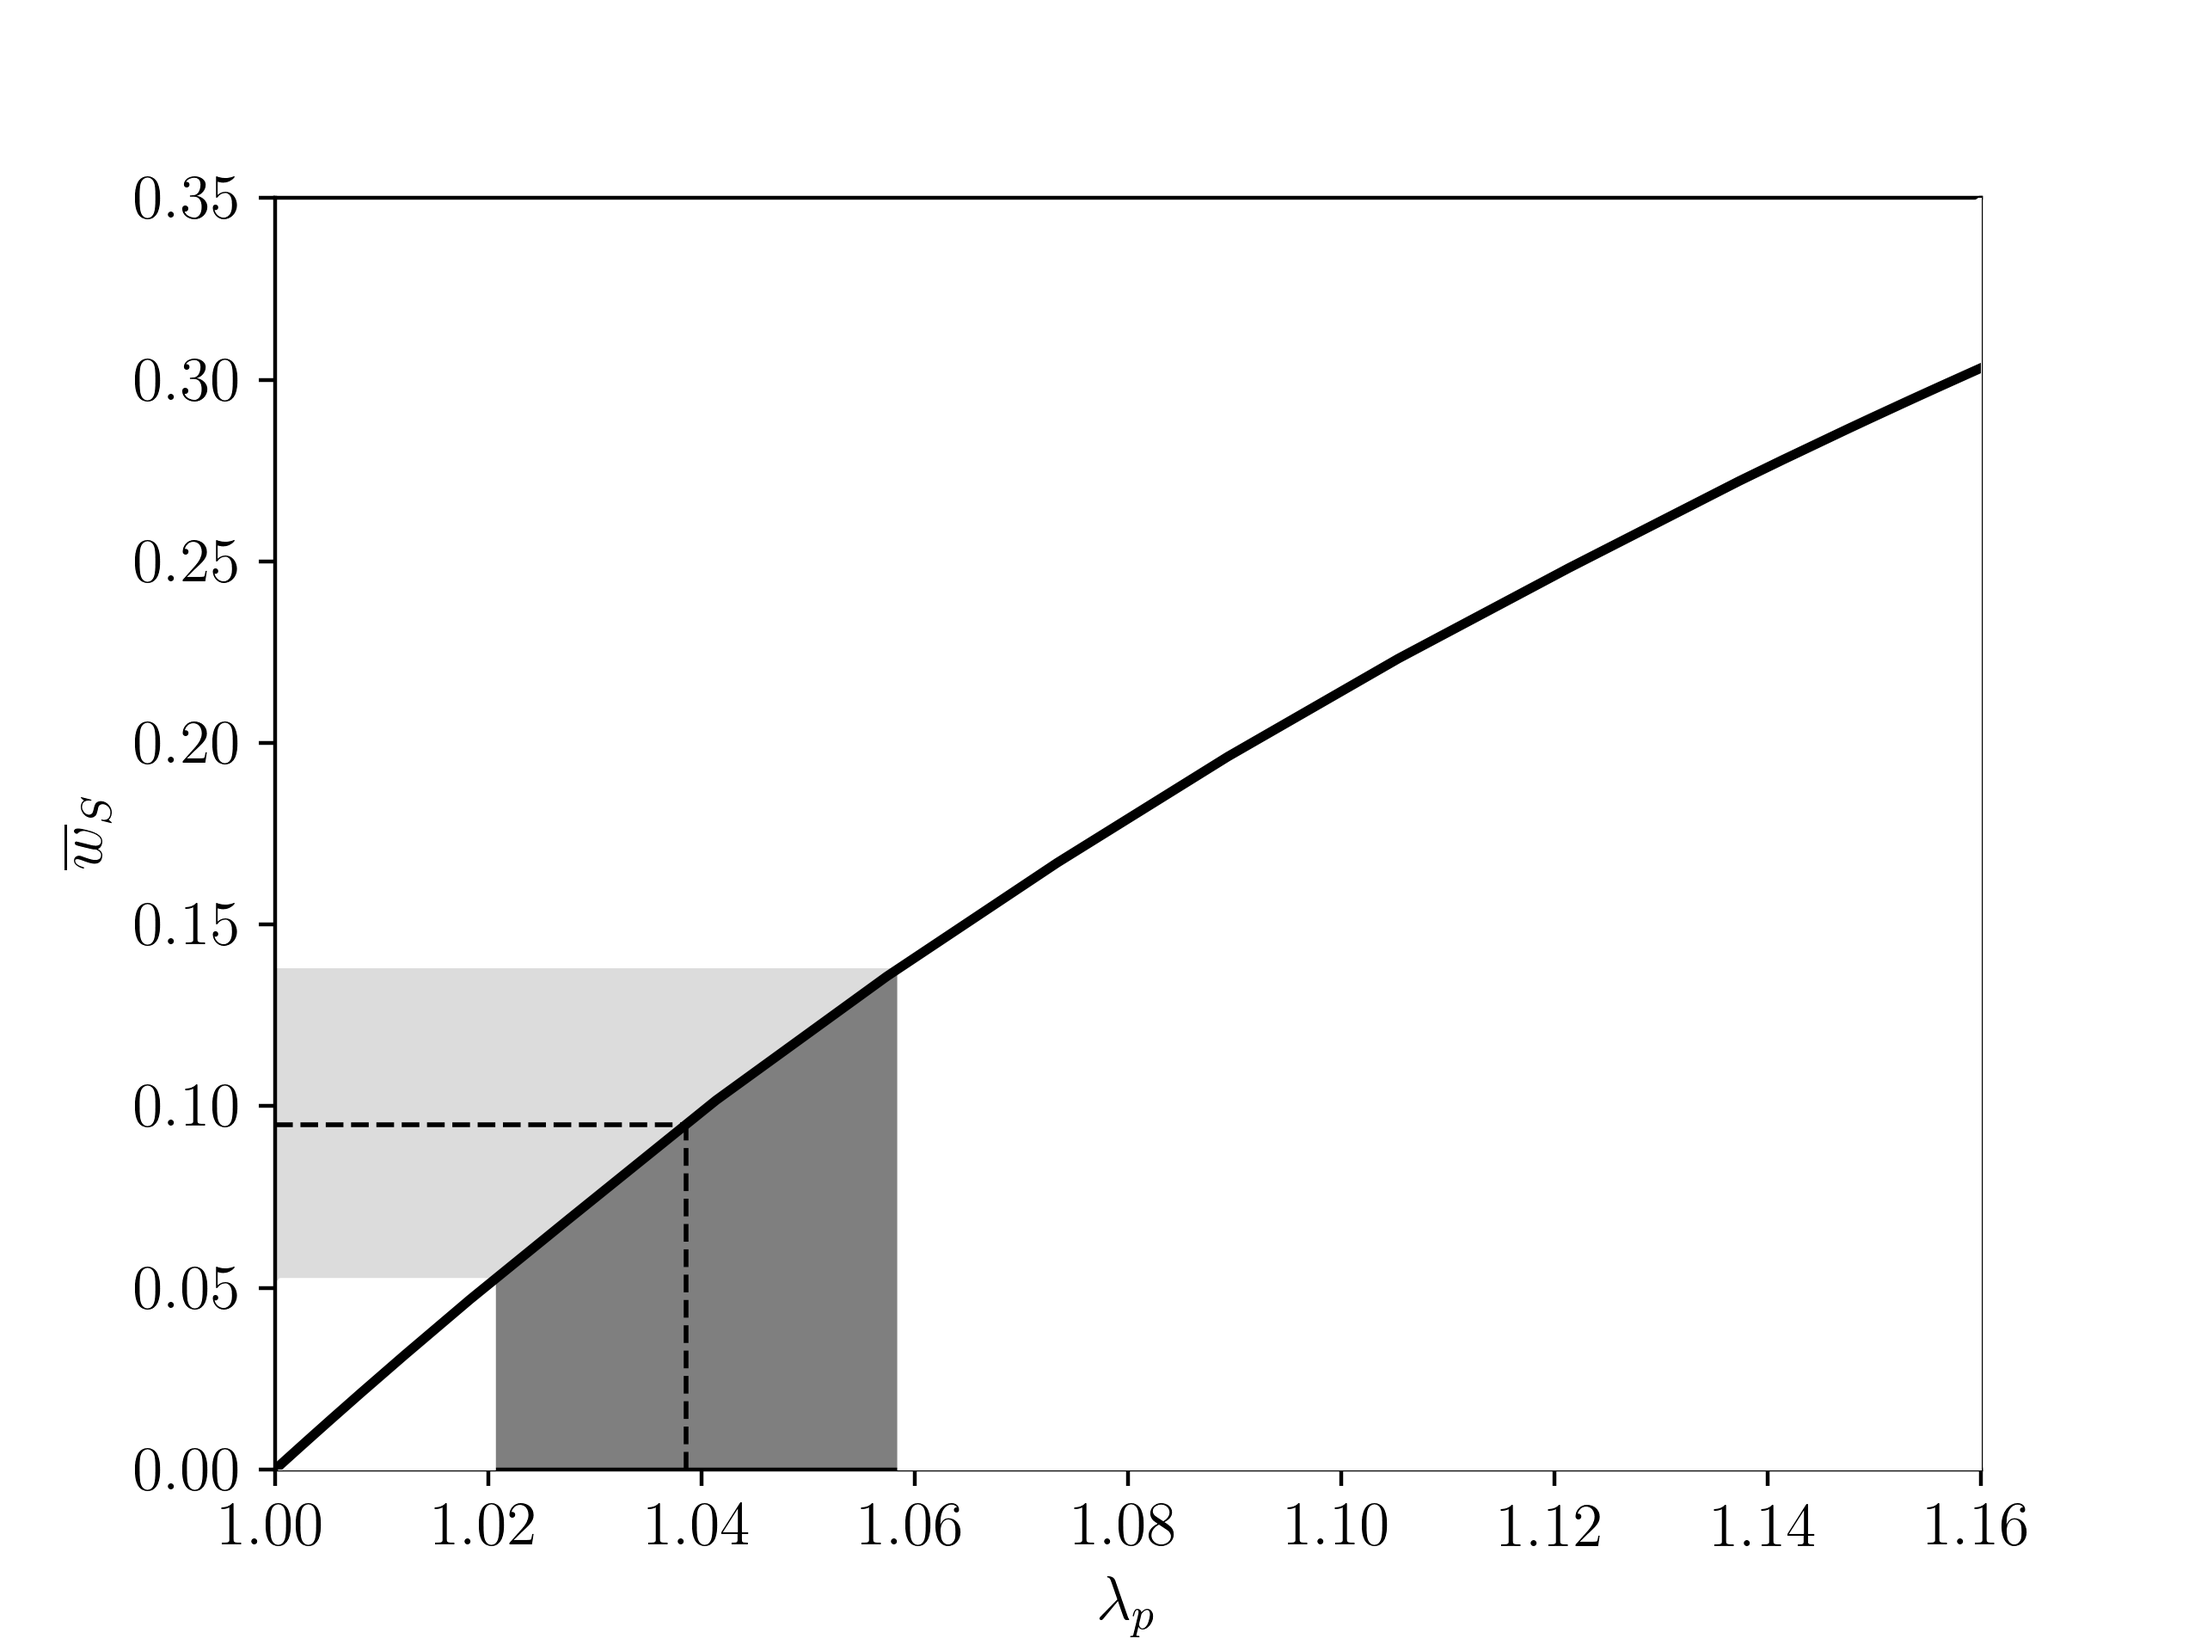
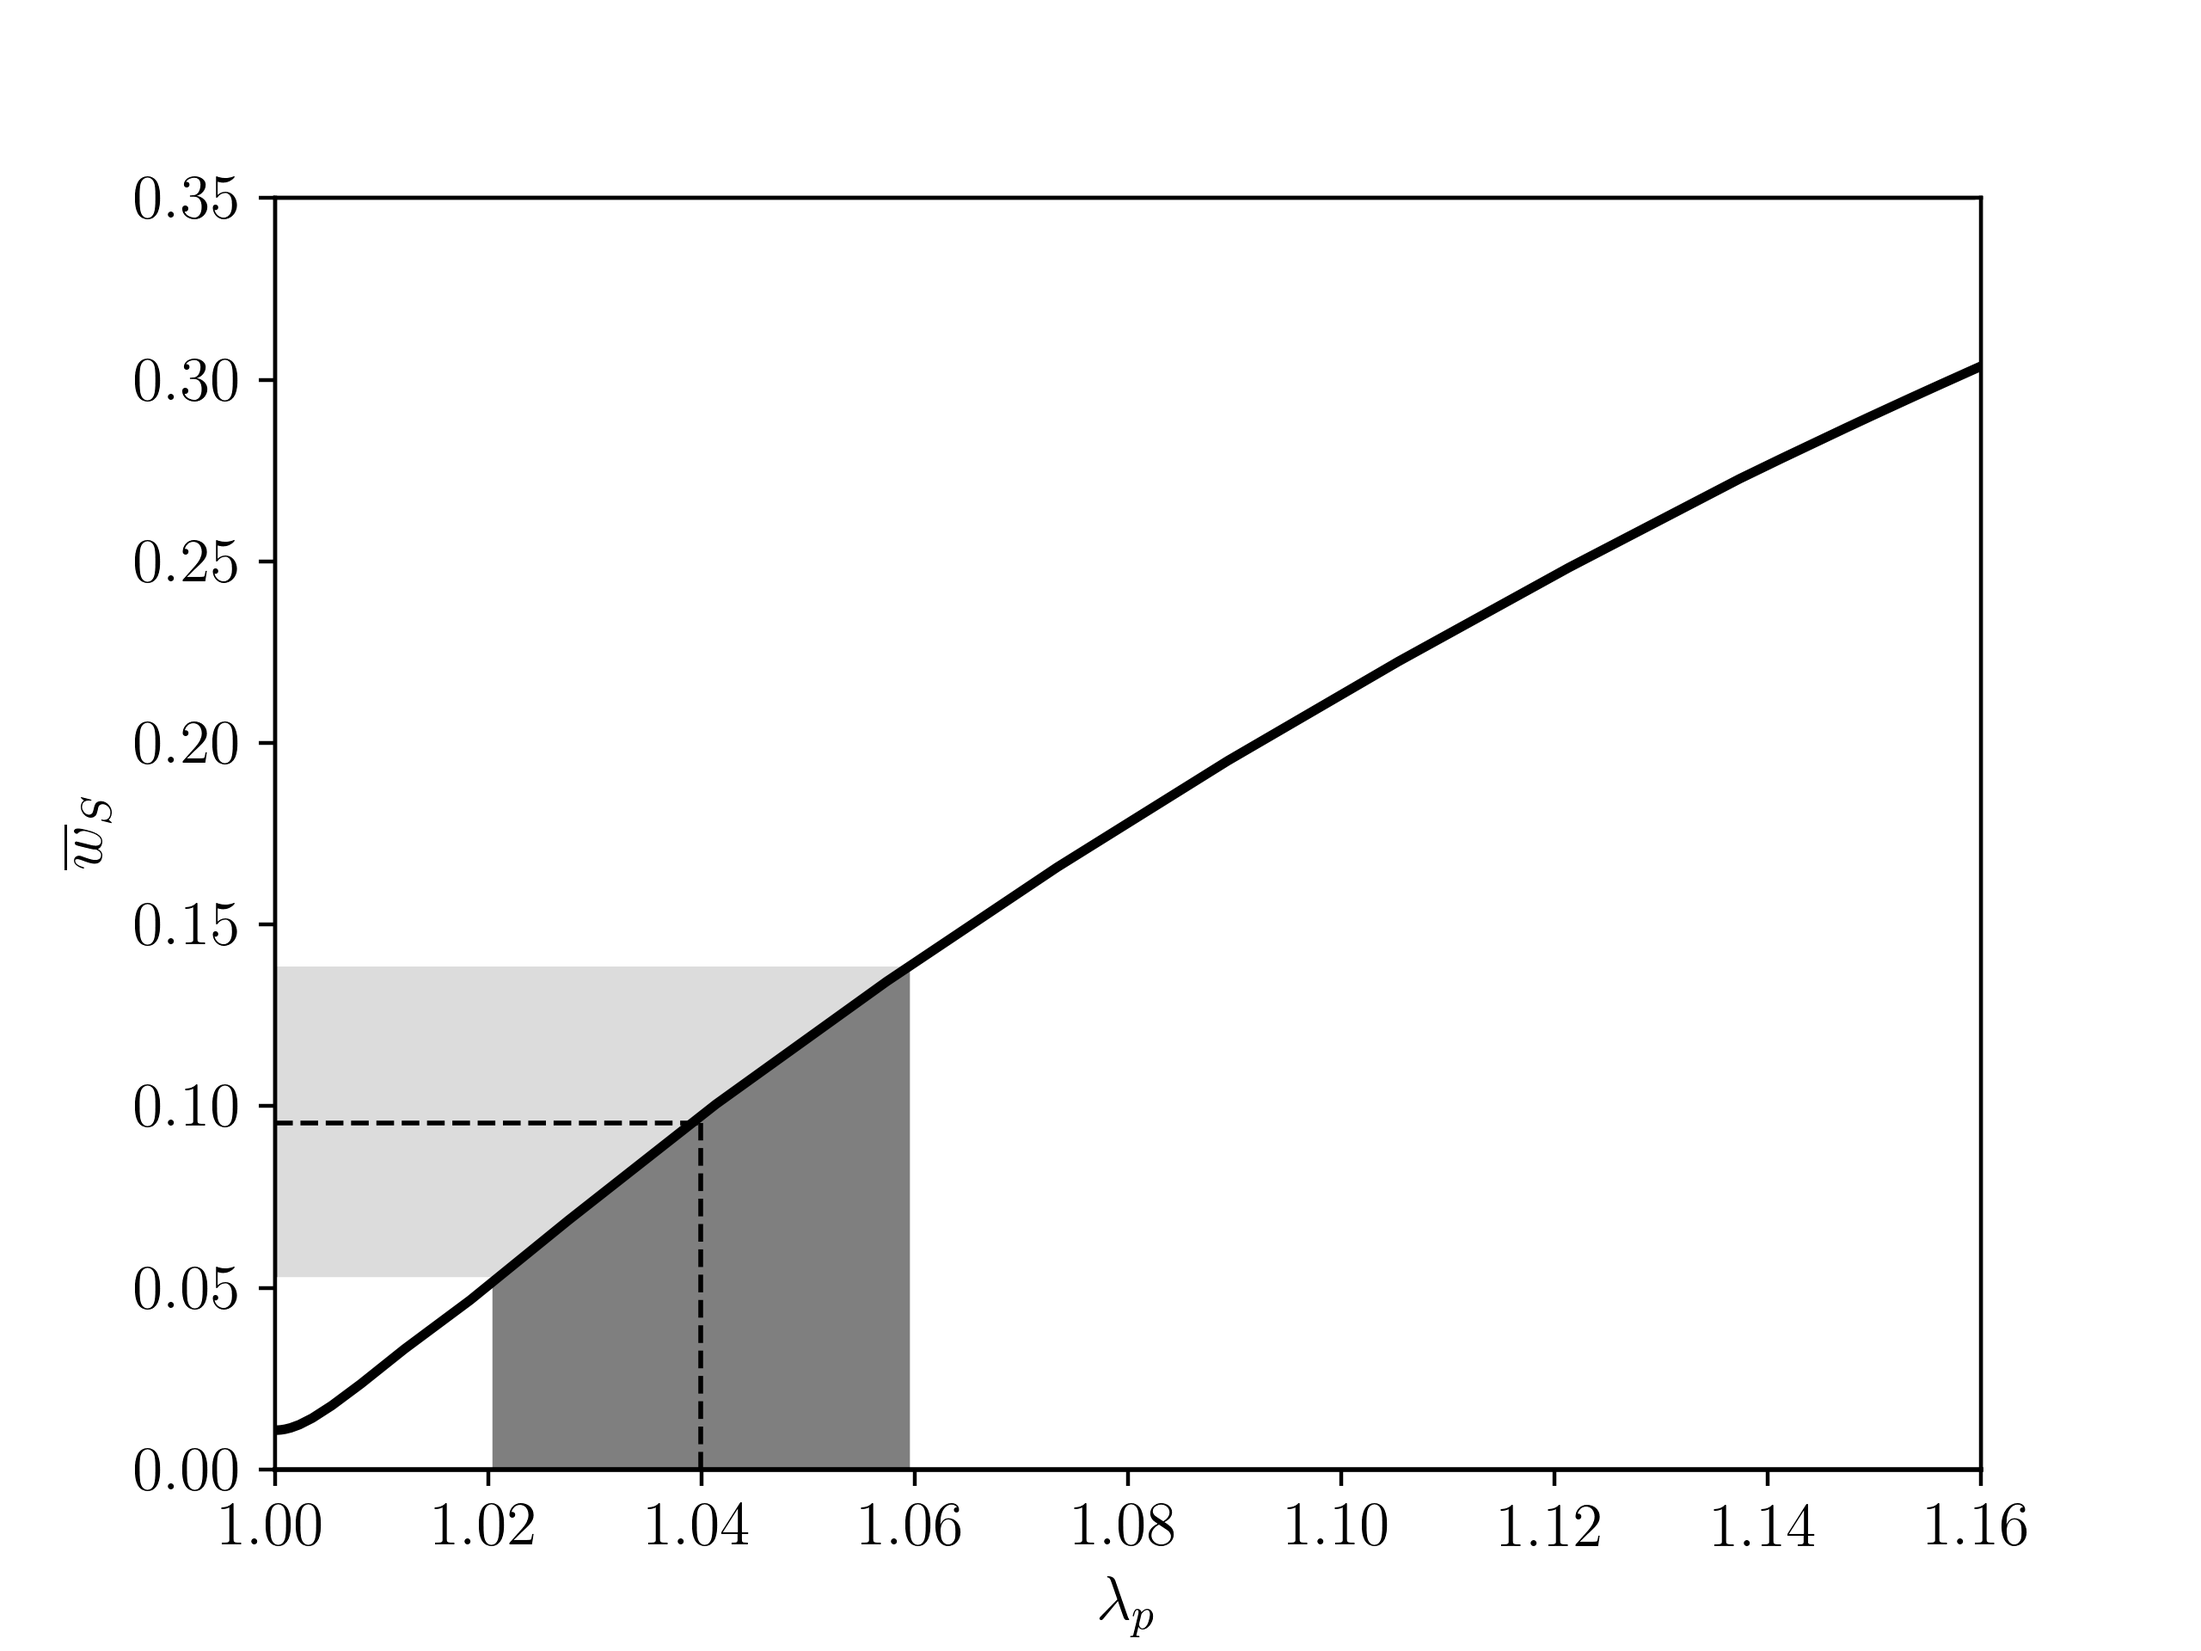
Add files via upload
The neonate and adult analysis code needed edits to create boarders, properly save the figures, and apply the estimated stretches to the plots. These should be more efficient, still the boarder creation issue is not as nice as it could be, but I do not much more time to work on this. Also uploaded this rather than pushed it from my repository because I was working in a lot of different folders.

diff --git a/analysis/analysis_neonatal_adult.py b/analysis/analysis_neonatal_adult.py
@@ -1,4 +1,4 @@
-""" Last updated: 2023/05/31
+""" Last updated: 2023/06/05
 
 Script for plotting the change in incision opening (w/l) as stretch increases,
 for the transverse and longitudinal cuts in the neonatal and adult murine 
@@ -35,10 +35,6 @@ def estimate_individual_stretches(path, csv):
     # extract stretch and w/l data 
     df_sim = pd.read_csv(path+csv, encoding='ISO-8859-1')
     df_exp = pd.read_csv('../experiments/experimental_data.csv', encoding='ISO-8859-1')
-
-    # curve fit of adult transverse data for standard deviation higher bound of stretch
-    if csv == 'adult_tran_sim.csv':
-        df_sim = analysis_functions.extrapolate(df_sim)
     
     group_name = []
     wbar_exp = []
@@ -77,59 +73,43 @@ def exp_and_est_means(csvs, wbar_sets, lambda_sets):
 
     return wbar_mean, wbar_stdv, lambda_mean, lambda_stdv
 
-def estimate_mean_stretch(wbar_exp, path, csv, title):
-    """ estimates stretch from average +/- stdev values of wbar """
-
-    # extract stretch and w/l data from simulations
-    df_sim = pd.read_csv(path+csv, encoding='ISO-8859-1')
-
-    # curve fit of adult transverse data for standard deviation higher bound of stretch
-    if title == 'adult_transverse':
-        df_sim = analysis_functions.extrapolate(df_sim)
-
-    # estimate pre-stretch
-    lambda_avg = analysis_functions.interpolateStretch(df_sim.lambda_p, df_sim.wbar, wbar_exp[0])
-    lambda_low = analysis_functions.interpolateStretch(df_sim.lambda_p, df_sim.wbar, (wbar_exp[0] - wbar_exp[1]))
-    lambda_high = analysis_functions.interpolateStretch(df_sim.lambda_p, df_sim.wbar, (wbar_exp[0] + wbar_exp[1]))
-    
-    lambda_std_low = np.abs(lambda_avg - lambda_low)
-    lambda_std_high = np.abs(lambda_avg - lambda_high)
-    lambda_std = np.mean([lambda_std_low,lambda_std_high])
-
-    # plot
-    plt.rcParams['text.usetex'] = True
-    plt.rcParams['font.family'] = "serif"
-    plt.rcParams['axes.autolimit_mode'] = 'round_numbers'
-    plt.rcParams['axes.xmargin'] = 0
-    plt.rcParams['axes.ymargin'] = 0
-    plt.rcParams['font.size'] = 13
-
-    plt.figure()
-    plt.axhspan((wbar_exp[0]-wbar_exp[1]), (wbar_exp[0]+wbar_exp[1]), facecolor='#DCDCDC', zorder=1)
-    plt.fill_between(df_sim.lambda_p, df_sim.wbar, color='#7F7F7F', alpha=1, zorder=2)
-    plt.fill_between([1.0005, (lambda_avg-lambda_std_low)], [(wbar_exp[0]-wbar_exp[1]), (wbar_exp[0]-wbar_exp[1])], color='white', alpha=1, zorder=3)
-    plt.fill_between([(lambda_avg+lambda_std_high), 1.16], [(wbar_exp[0]+wbar_exp[1]), 0.35], color='white', alpha=1, zorder=4)
-    
-    plt.plot(df_sim.lambda_p, df_sim.wbar, linestyle='-',color='k', linewidth=2, zorder=5)
-    plt.plot([1.00, lambda_avg], [wbar_exp[0], wbar_exp[0]], linestyle='--', color='k', linewidth=1, zorder=5)
-    plt.plot([lambda_avg,lambda_avg], [0, wbar_exp[0]], linestyle='--', color='k', linewidth=1, zorder=5)
-    
-    plt.xlabel(r'$\lambda_p$')
-    plt.ylabel(r'$\overline{w}_S$')
-    plt.savefig("figure-" + title, dpi=400)
-
-    return lambda_avg, lambda_std
-
-def write_estimated_stretches(groups):
+def plot(groups):
     
     [group_names, wbar_sets, lambda_sets, strain_sets] = exp_and_est_data(path, csvs)
     [wbar_mean, wbar_stdv, lambda_mean, lambda_stdv] = exp_and_est_means(csvs, wbar_sets, lambda_sets)
+    
+    for i in range(len(groups)):
+        print('Simulation:', groups[i].title)
+        print('Experimental wbar:', wbar_mean[i],'+/-',wbar_stdv[i])
+        print('Estimated stretch:', lambda_mean[i],'+/-',lambda_stdv[i])
 
-    for i in range(len(groups)):        
-        [lambda_avg, lambda_std] = estimate_mean_stretch([wbar_mean[i], wbar_stdv[i]], group.path, group.csv, group.title)
+        # extract stretch and w/l data from simulations
+        df_sim = pd.read_csv(path+csvs[i], encoding='ISO-8859-1')
 
-        print('Simulation:', group.title)
-        print('Estimated stretch:', lambda_avg,'+/-',lambda_std)
+        # plot
+        plt.rcParams['text.usetex'] = True
+        plt.rcParams['font.family'] = "serif"
+        plt.rcParams['axes.autolimit_mode'] = 'round_numbers'
+        plt.rcParams['axes.xmargin'] = 0
+        plt.rcParams['axes.ymargin'] = 0
+        plt.rcParams['font.size'] = 13
+
+        plt.figure()
+        plt.axhspan((wbar_mean[i]-wbar_stdv[i]), (wbar_mean[i]+wbar_stdv[i]), facecolor='#DCDCDC', zorder=1)
+        plt.fill_between(df_sim.lambda_p, df_sim.wbar, color='#7F7F7F', alpha=1, zorder=2)
+        plt.fill_between([1.000, (lambda_mean[i]-lambda_stdv[i])], [(wbar_mean[i]-wbar_stdv[i]), (wbar_mean[i]-wbar_stdv[i])], color='white', alpha=1, zorder=3)
+        plt.fill_between([(lambda_mean[i]+lambda_stdv[i]), 1.16], [(wbar_mean[i]+wbar_stdv[i]), 0.35], color='white', alpha=1, zorder=4)
+    
+        plt.plot(df_sim.lambda_p, df_sim.wbar, linestyle='-',color='k', linewidth=2, zorder=5)
+        plt.plot([1.00, lambda_mean[i]], [wbar_mean[i], wbar_mean[i]], linestyle='--', color='k', linewidth=1, zorder=5)
+        plt.plot([lambda_mean[i],lambda_mean[i]], [0, wbar_mean[i]], linestyle='--', color='k', linewidth=1, zorder=5)
+    
+        plt.xlabel(r'$\lambda_p$')
+        plt.ylabel(r'$\overline{w}_S$')
+        ax1 = plt.twiny()
+        ax1.axes.get_xaxis().set_visible(False)
+        ax1.spines['bottom'].set_linewidth(1)
+        plt.savefig("figure-" + groups[i].title, dpi=400)
     
     # write experimental stretch information to file
     outFile = open('results-estimated_stretches.csv', 'w+')
@@ -246,7 +226,6 @@ adultLong = ExperimentalGroup(
         'adult_longitudinal'
     )
 
-
 if __name__ == '__main__':
     
     path = '../simulations/results/'
@@ -256,13 +235,13 @@ if __name__ == '__main__':
     for group in groups: 
         csvs.append(group.csv)
 
-    write_estimated_stretches(groups)
+    plot(groups)
 
     bar_plot(path, csvs)
 
     # statistical analysis
     outFile = open('results-statistics.csv', 'w+')
-    header = ['comparison', 'metric', 'test statistic', 'p-value', 'effect size']
+    header = ['comparison', 'metric', 'p-value', 'effect size']
     writer = csv.writer(outFile)
     writer.writerow(header)
     statistical_analysis(path, csvs[0], csvs[1])

diff --git a/analysis/analysis_functions.py b/analysis/analysis_functions.py
@@ -20,22 +20,3 @@ def polyfit(x, a, b, c, d, e, f):
     """ polynomial regression fit """
     polyfit = a*(x**5)+b*(x**4)+c*(x**3)+d*(x**2)+e*(x)+f
     return polyfit
-
-
-def extrapolate(df_sim):
-    # fit polynomial to simulation data
-    lambda_orig = df_sim.lambda_p
-    wbar_orig = df_sim.wbar
-    [[a, b, c, d, e, f], covariance] = curve_fit(f=polyfit, xdata=lambda_orig, ydata=wbar_orig, bounds=(-np.inf, np.inf))
-    
-    # extrapolate remaining points
-    lambda_extrapolated = [1.135, 1.140, 1.145, 1.150, 1.155, 1.16]
-    wbar_extrapolated = np.zeros(len(lambda_extrapolated))
-    for i in range(len(lambda_extrapolated)):
-        wbar_extrapolated[i] = polyfit(lambda_extrapolated[i], a, b, c, d, e, f)
-    
-    # add to simulation data
-    df_ext = pd.DataFrame({'lambda_p': lambda_extrapolated, 'wbar': wbar_extrapolated})
-    df_sim = pd.concat([df_sim, df_ext], ignore_index=True)
-
-    return df_sim
